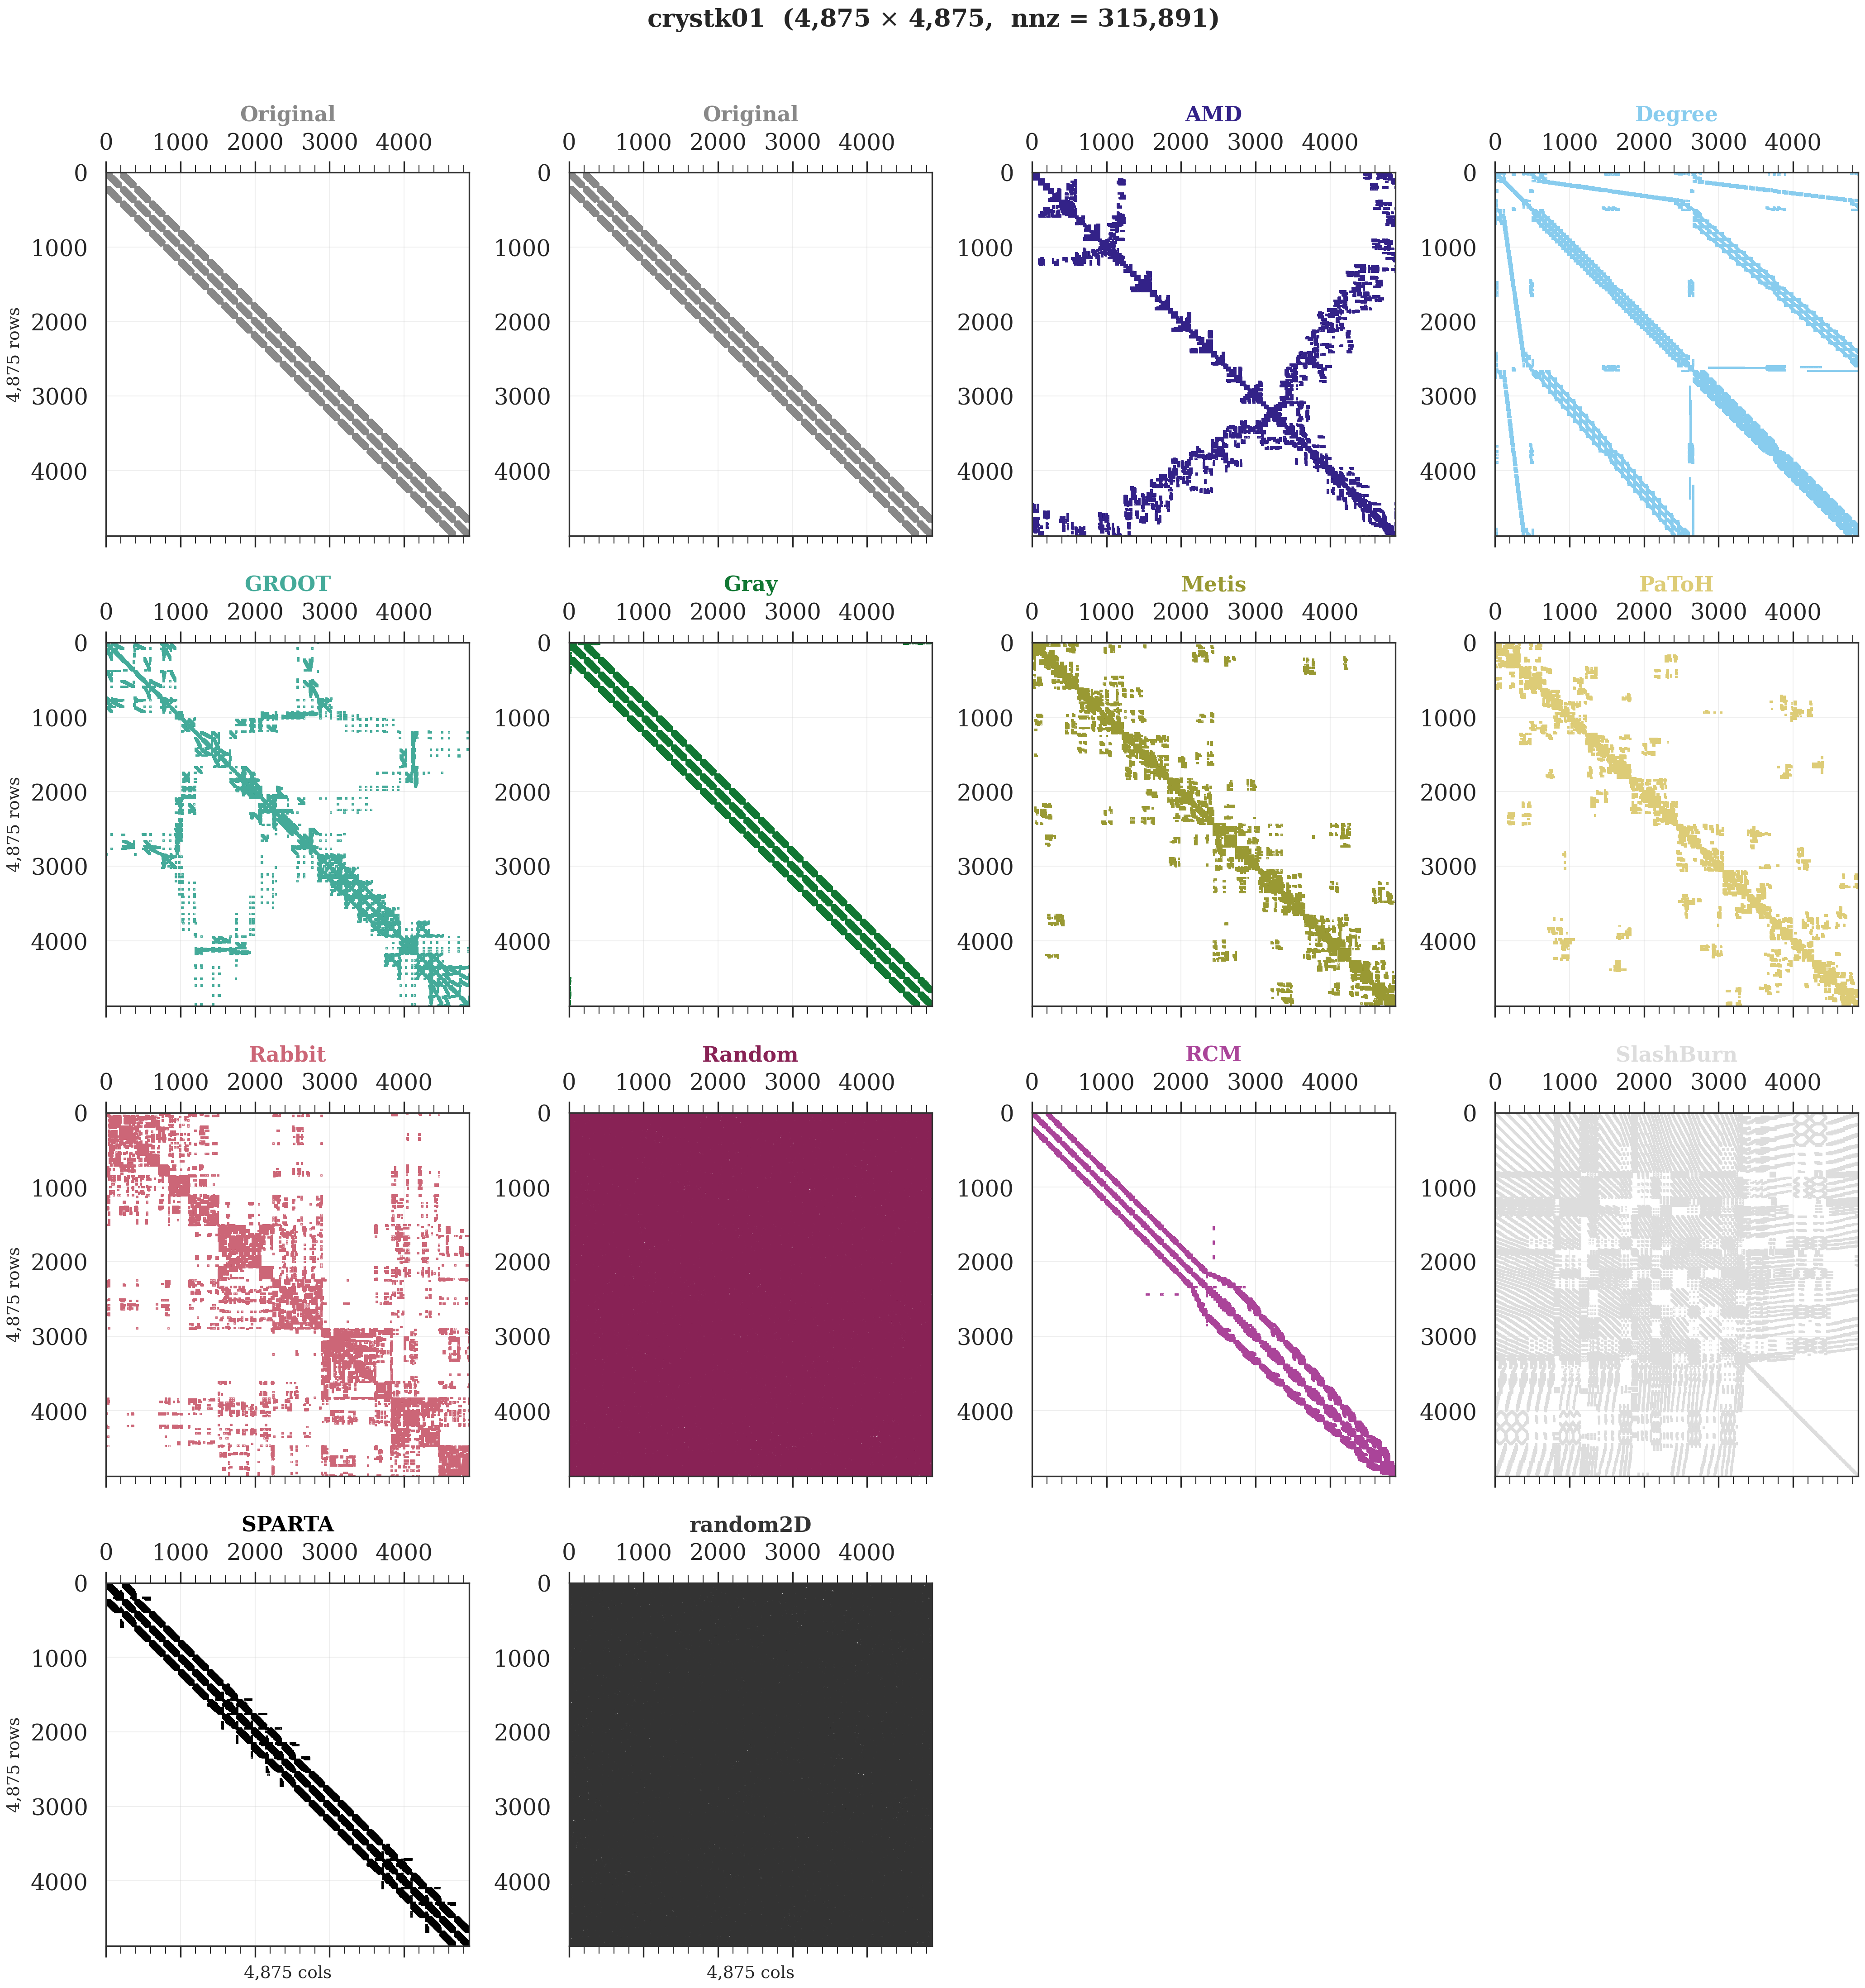
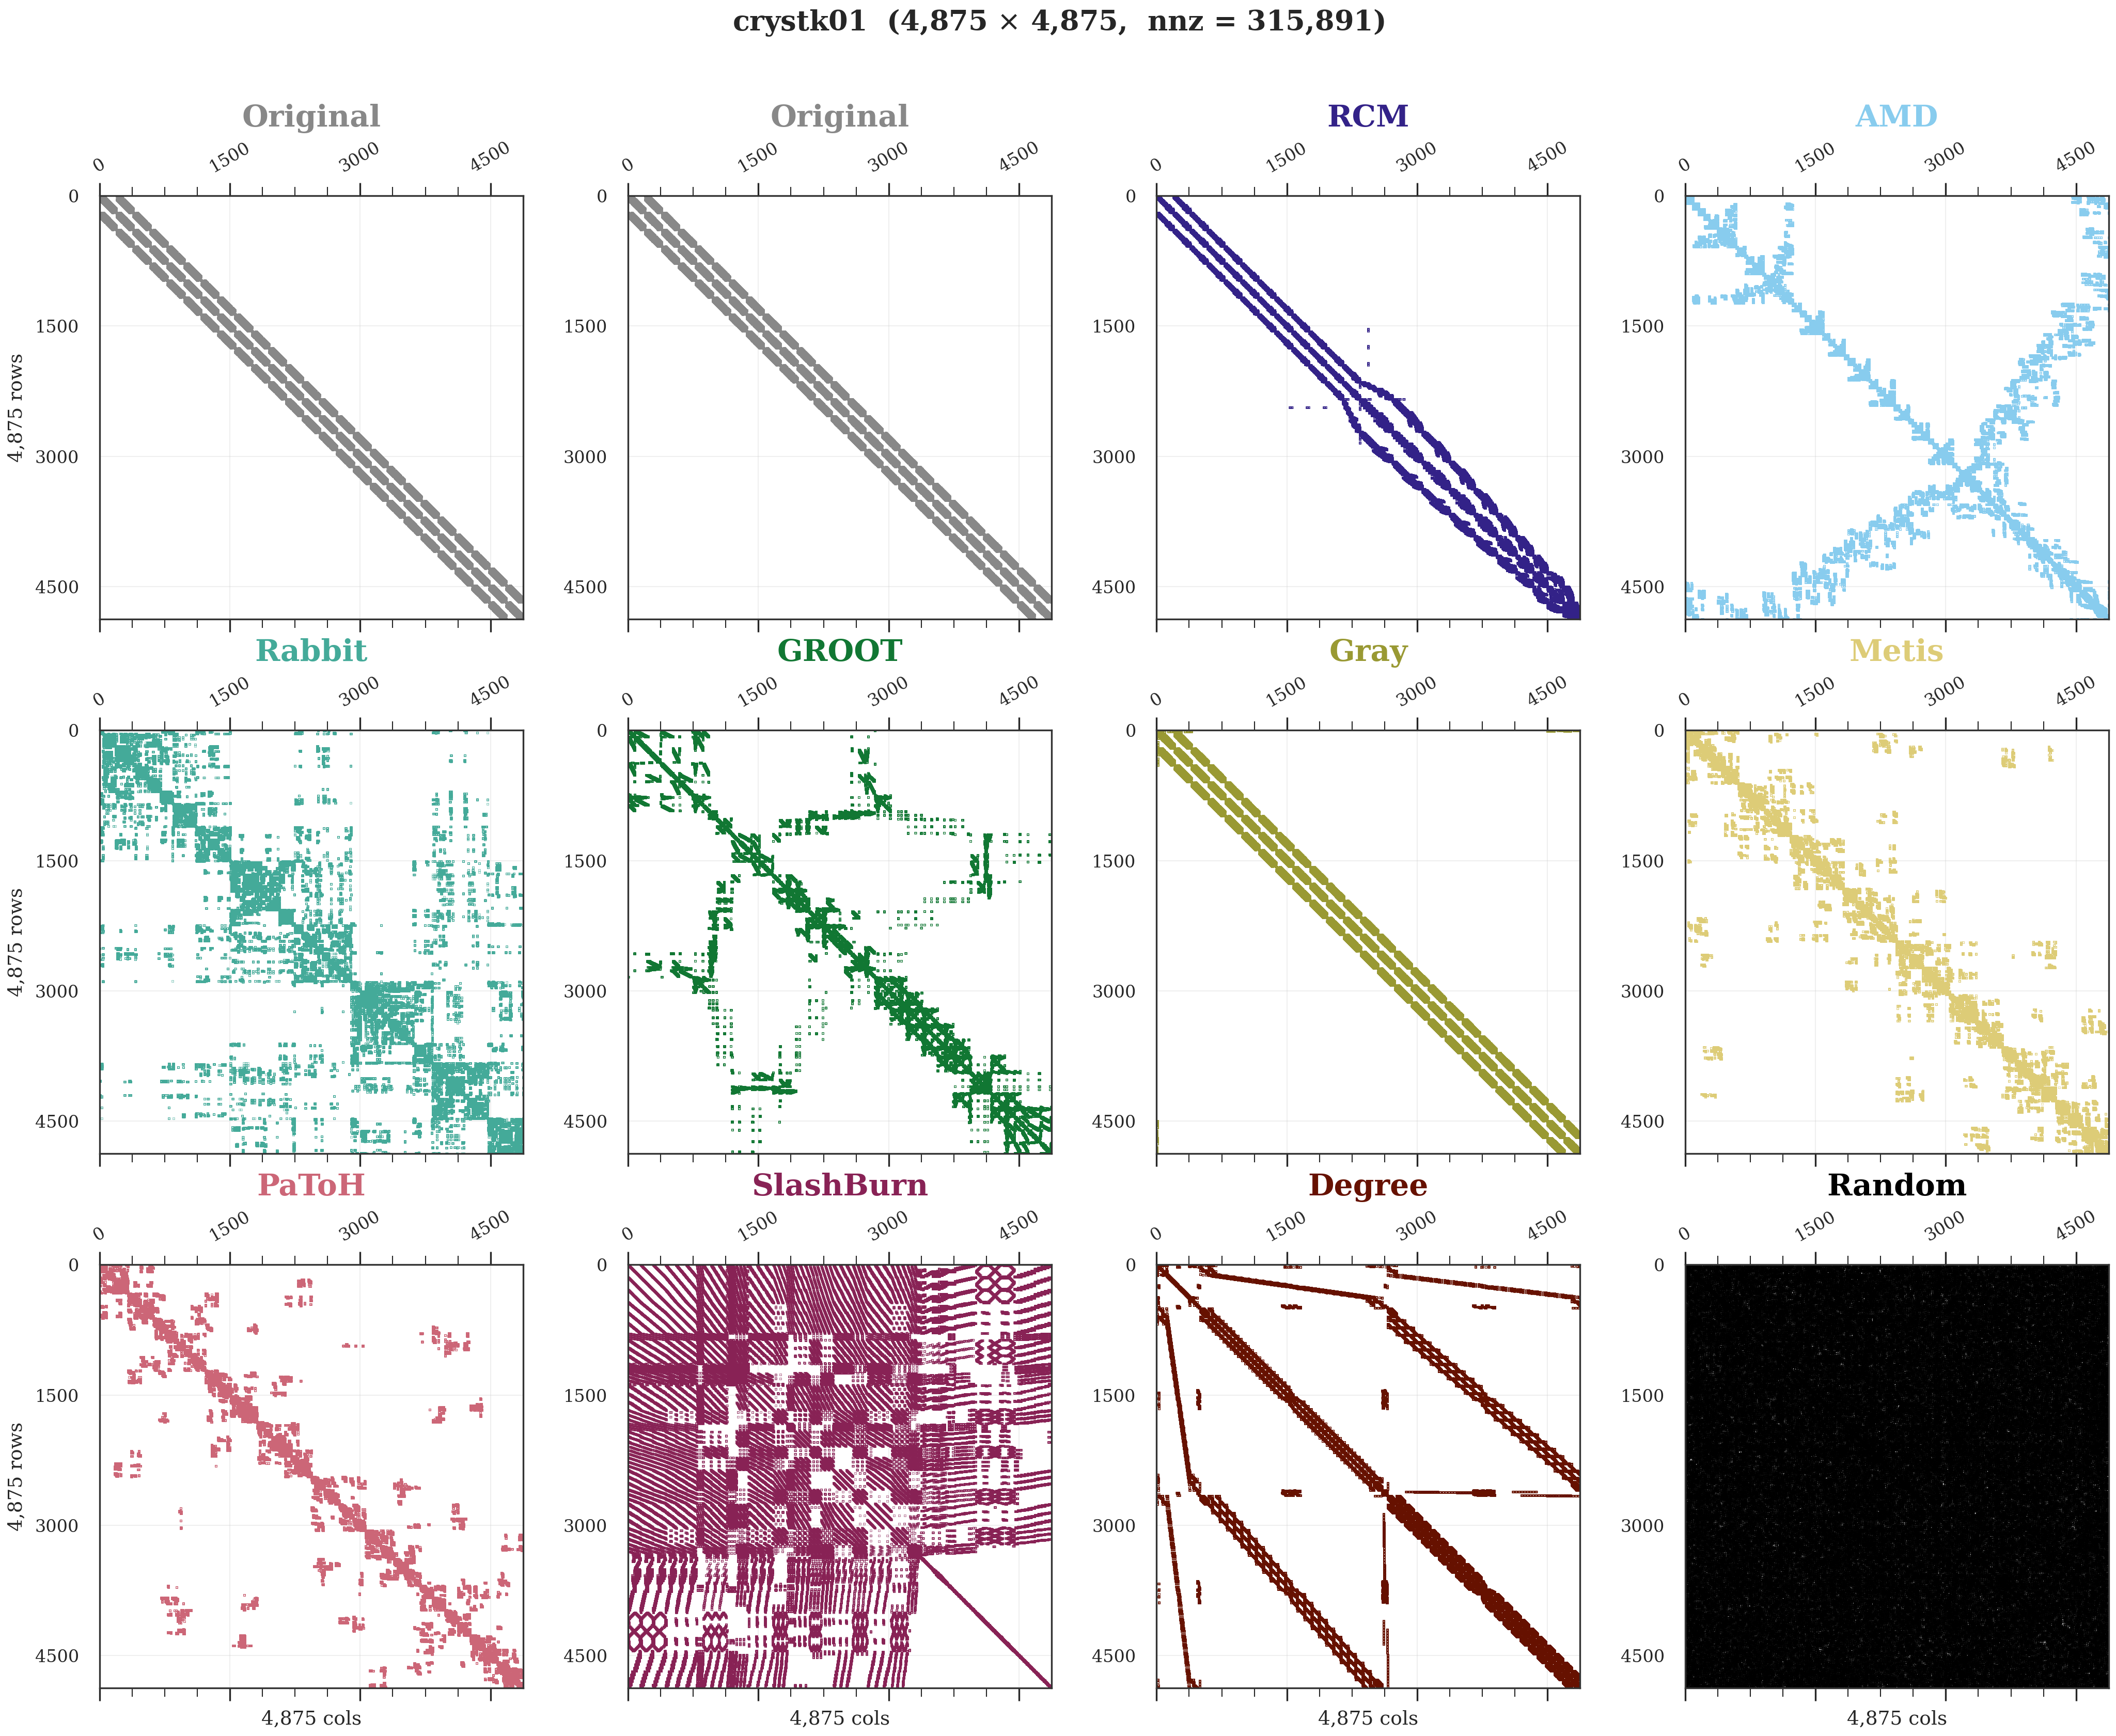
plots: improve collective spy plot — remove SPARTA/random2D, fix tick overlap, larger titles
- Exclude SPARTA_reorder and random2D from spy plots
- Add TCA_reorder (DTC-LSH) to default algorithm list
- Limit x/y ticks to 4 with rotation to prevent label overlap
- Increase subplot title font size 11→14 for readability
- Update airfoil1_dual and crystk01 spy plots

diff --git a/scripts/spy_plots.py b/scripts/spy_plots.py
@@ -117,7 +117,12 @@ def create_spy_plot(matrices_dict, output_path, matrix_name, figsize=None, marke
         ax = axes[idx]
         color = _label_color(label)
         ax.spy(A, markersize=markersize, aspect='equal', color=color)
-        ax.set_title(label, fontsize=11, fontweight='bold', color=color)
+        ax.set_title(label, fontsize=14, fontweight='bold', color=color)
+        # Limit tick density to avoid overlapping labels
+        ax.xaxis.set_major_locator(plt.MaxNLocator(4, integer=True))
+        ax.yaxis.set_major_locator(plt.MaxNLocator(4, integer=True))
+        ax.tick_params(axis='x', labelrotation=30, labelsize=8)
+        ax.tick_params(axis='y', labelsize=8)
         # Only show dimension labels on edge subplots
         row_idx, col_idx = divmod(idx, n_cols)
         if row_idx == n_rows - 1:
@@ -273,31 +278,34 @@ def main():
         print(f"Warning: Could not load analysis CSV: {e}")
         df = pd.DataFrame()
     
+    # Algorithms excluded from spy plots (not informative / not in scope)
+    SPY_EXCLUDE = {'SPARTA_reorder', 'random2D'}
+
     # Get available algorithms from perms directory or use defaults
     if args.algorithms:
-        algorithms = args.algorithms
+        algorithms = [a for a in args.algorithms if a not in SPY_EXCLUDE]
     else:
         # Default algorithms based on analysis data
         # These match the permutation names in results_analysis.csv
         algorithms = [
-            'SB_rcm',       # Reverse Cuthill-McKee (bandwidth reduction)
-            'SB_amd',       # Approximate Minimum Degree
-            'SB_metis',     # Graph partitioning
-            'SB_gray',      # Gray code ordering
-            'SB_degree',    # Degree-based ordering
-            'SB_rabbit',    # Rabbit ordering
-            'SB_patoh',     # PaToH hypergraph partitioning
+            'SB_rcm',        # Reverse Cuthill-McKee (bandwidth reduction)
+            'SB_amd',        # Approximate Minimum Degree
+            'SB_metis',      # Graph partitioning
+            'SB_gray',       # Gray code ordering
+            'SB_degree',     # Degree-based ordering
+            'SB_rabbit',     # Rabbit ordering
+            'SB_patoh',      # PaToH hypergraph partitioning
             'GROOT_reorder', # GROOT GPU reordering
-            'SPARTA_reorder', # SPARTA reordering
-            'random1D',     # Random permutation (baseline)
+            'TCA_reorder',   # DTC-LSH reordering
+            'random1D',      # Random permutation (baseline)
         ]
-        
+
         # Also check what's actually in the perms directory
         if perms_dir.exists():
             available = [d.name for d in perms_dir.iterdir() if d.is_dir()]
-            # Keep only algorithms that exist
-            algorithms = [a for a in algorithms if a in available] + \
-                        [a for a in available if a not in algorithms]
+            # Keep only algorithms that exist, excluding blacklisted ones
+            algorithms = [a for a in algorithms if a in available and a not in SPY_EXCLUDE] + \
+                        [a for a in available if a not in algorithms and a not in SPY_EXCLUDE]
     
     print(f"Algorithms to process: {algorithms}")
     